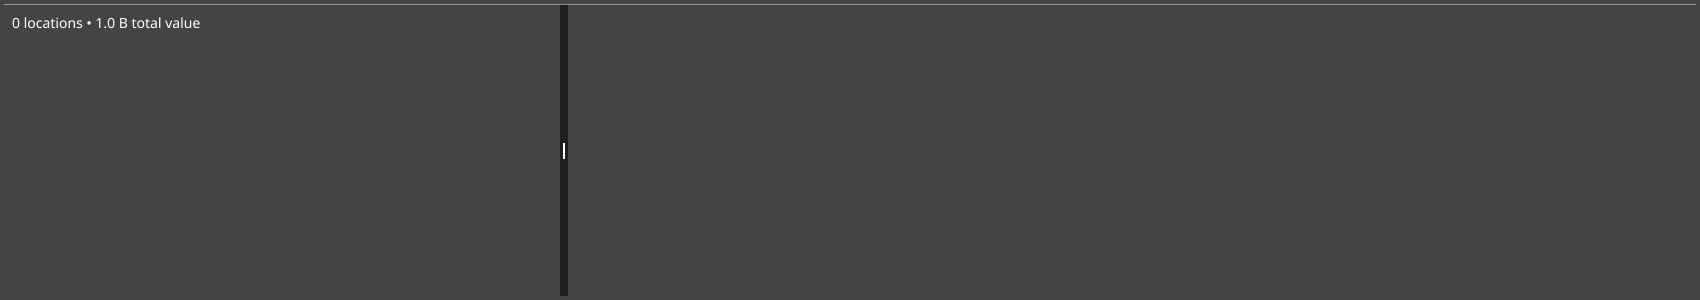
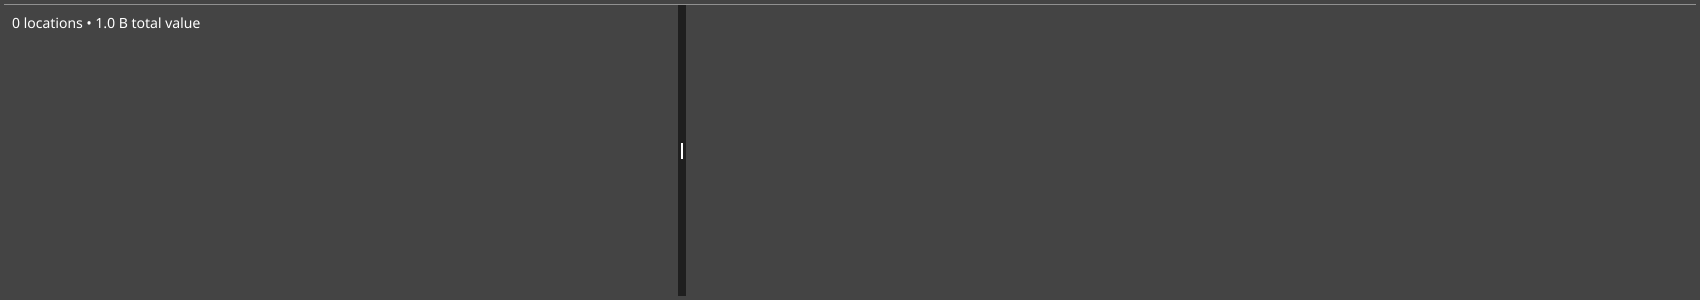
fix: some branches can be toogled in character assets

Changed region(s): [[0.3741, 0.03, 0.4053, 0.99], [0.3118, 0.03, 0.3429, 0.99]]

diff --git a/internal/app/ui/characterassets_internal_test.go b/internal/app/ui/characterassets_internal_test.go
@@ -115,11 +115,13 @@ func TestCharacterAsset_CanRenderWithData(t *testing.T) {
 	test.ApplyTheme(t, test.Theme())
 	ui := MakeFakeBaseUI(st, test.NewTempApp(t), true)
 	ui.setCharacter(character)
-	w := test.NewWindow(ui.characterAsset)
+	a := ui.characterAsset
+	w := test.NewWindow(a)
 	defer w.Close()
 	w.Resize(fyne.NewSize(1700, 300))
 
-	ui.characterAsset.update()
+	a.update()
+	a.locations.OpenAllBranches()
 
 	test.AssertImageMatches(t, "characterasset/full.png", w.Canvas().Capture())
 }
@@ -137,11 +139,12 @@ func TestCharacterAsset_CanRenderWithoutData(t *testing.T) {
 	test.ApplyTheme(t, test.Theme())
 	ui := MakeFakeBaseUI(st, test.NewTempApp(t), true)
 	ui.setCharacter(character)
-	w := test.NewWindow(ui.characterAsset)
+	a := ui.characterAsset
+	w := test.NewWindow(a)
 	defer w.Close()
 	w.Resize(fyne.NewSize(1700, 300))
 
-	ui.characterAsset.update()
+	a.update()
 
 	test.AssertImageMatches(t, "characterasset/minimal.png", w.Canvas().Capture())
 }

diff --git a/internal/app/ui/characterassets.go b/internal/app/ui/characterassets.go
@@ -95,7 +95,7 @@ func newCharacterAssets(u *baseUI) *characterAssets {
 
 func (a *characterAssets) CreateRenderer() fyne.WidgetRenderer {
 	main := container.NewHSplit(a.Locations, a.LocationAssets)
-	main.SetOffset(0.33)
+	main.SetOffset(0.40)
 	p := theme.Padding()
 	c := container.NewBorder(
 		widget.NewSeparator(),
@@ -156,7 +156,6 @@ func (a *characterAssets) makeLocationsTree() *iwidget.Tree[locationNode] {
 	)
 	t.OnSelectedNode = func(n locationNode) {
 		if n.variant == nodeLocation {
-			t.OpenBranch(n.UID())
 			t.UnselectAll()
 			return
 		}
